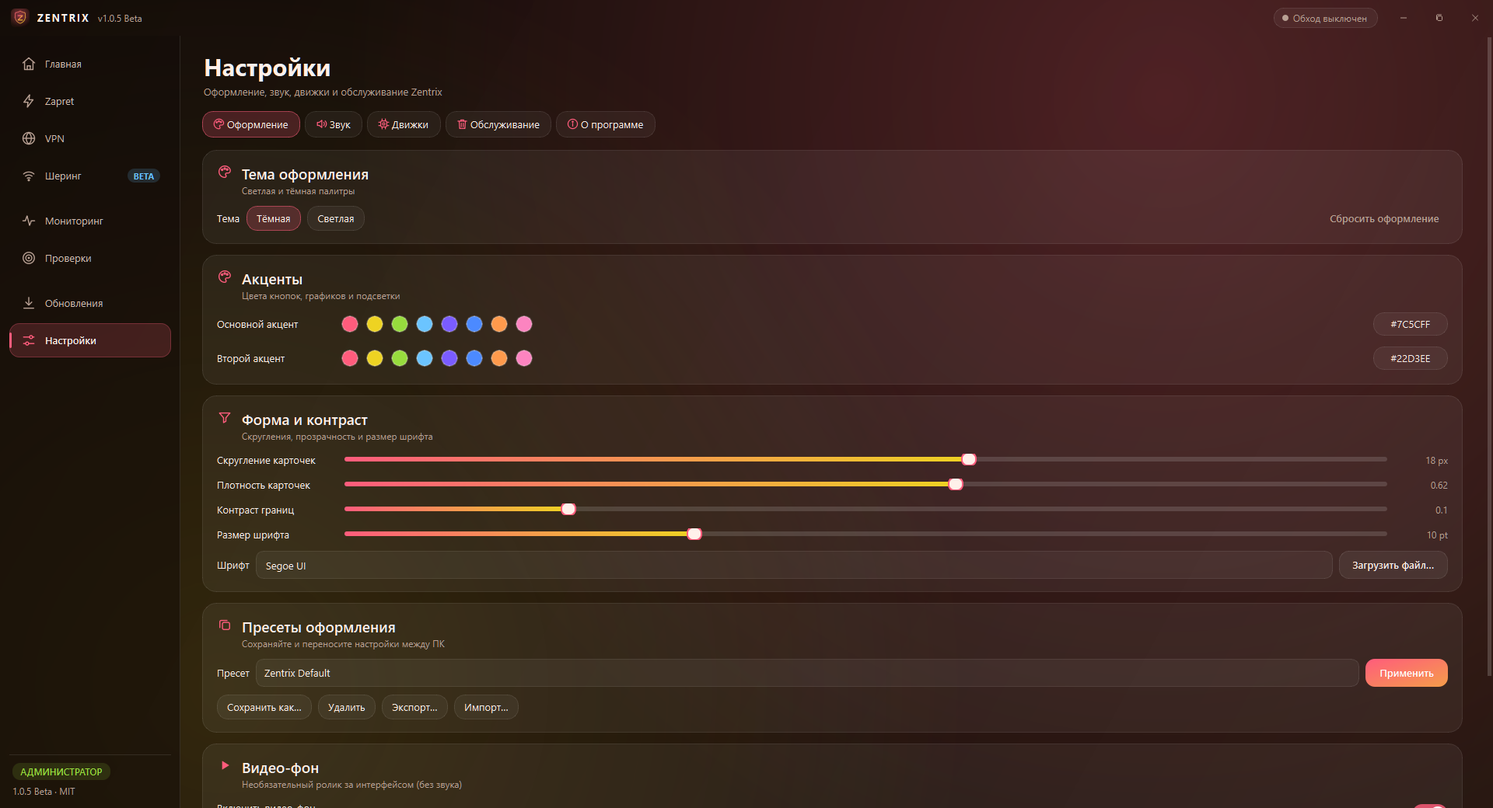
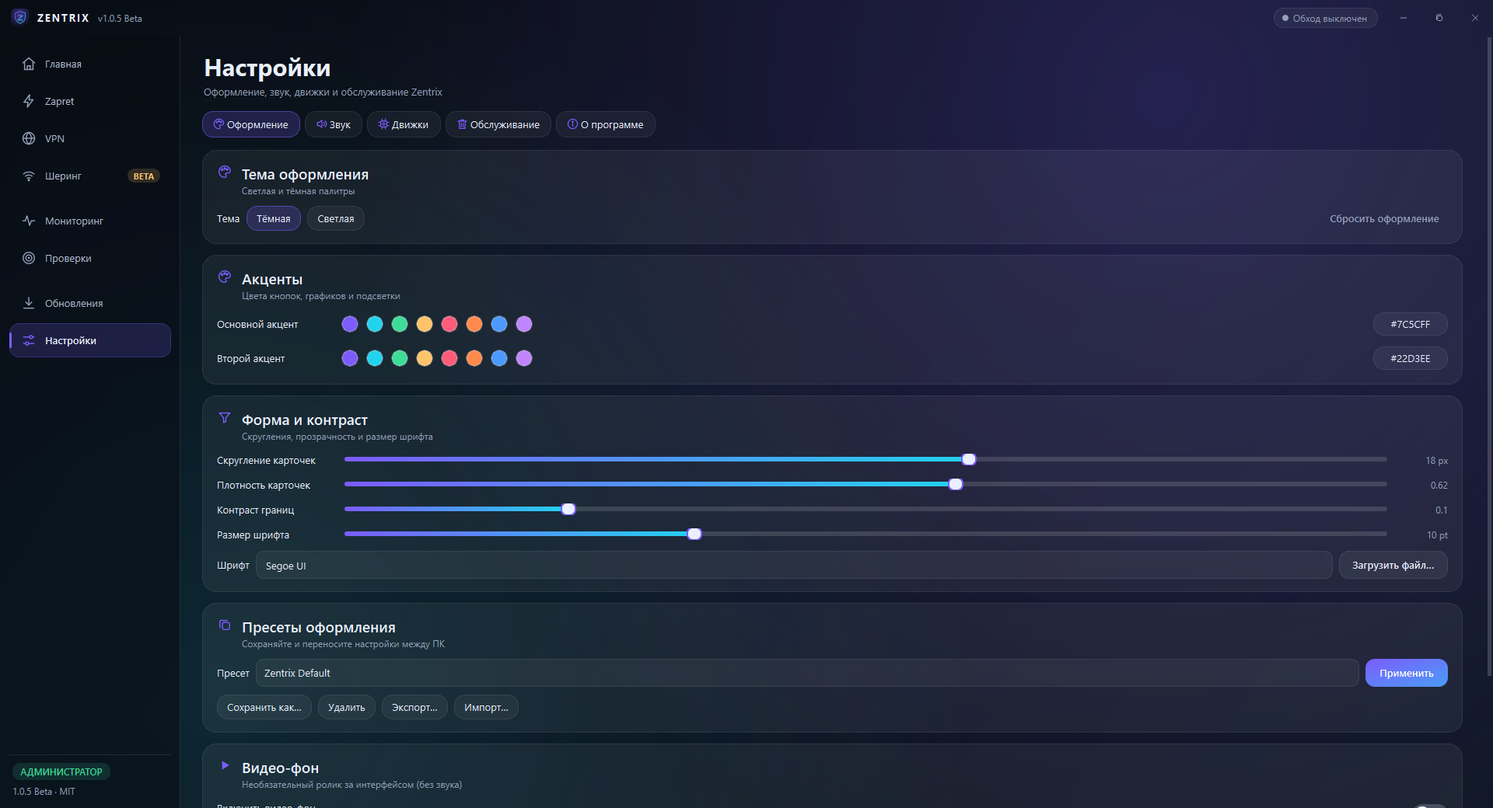
Site: demo rebuilt to mirror the real app; screenshots re-captured correctly
- interactive demo now reproduces the actual app layout: hero card
  'Обход блокировок под контролем' with orb, engine cards with
  'Управление', Zapret page with strategies + Расположение/Обход/
  Состояние columns, game filter and bypass cards
- fixed the capture script swapping R/B channels (BGRA), which painted
  every screenshot red; screenshots now show the true purple theme
- background video disabled during capture so pages show the clean
  gradient

diff --git a/docs/index.html b/docs/index.html
@@ -55,9 +55,9 @@
 
       </div>
 
-      <div class="mock app-demo" id="appDemo">
-        <div class="win"><i></i><i></i><i></i><span>Zentrix — v1.0.5</span>
-          <span class="pill"><i class="dot"></i>Обход активен</span>
+<div class="mock app-demo" id="appDemo">
+        <div class="win"><i></i><i></i><i></i><span>ZENTRIX · v1.0.5 Beta</span>
+          <span class="pill"><i class="dot"></i>Обход выключен</span>
         </div>
         <div class="app">
 
@@ -70,69 +70,118 @@
             <button data-page="check" data-glyph="◎"><span>Проверки</span></button>
             <button data-page="updates" data-glyph="↓"><span>Обновления</span></button>
             <button data-page="settings" data-glyph="◐"><span>Настройки</span></button>
-            <div class="app-foot">АДМИНИСТРАТОР</div>
+            <div class="app-foot"><b>АДМИНИСТРАТОР</b><small>1.0.5 Beta · MIT</small></div>
           </aside>
 
           <div class="app-body">
 
             <!-- Главная -->
             <section class="page on" data-page="home">
-              <div class="pg-head"><h4>Главная</h4><p>Обход и VPN — под одной кнопкой</p></div>
-              <div class="a-stats">
-                <div class="a-stat"><div class="cap">ZAPRET</div><div class="val ok">Активен</div><div class="det">general (FAKE TLS AUTO)</div></div>
-                <div class="a-stat"><div class="cap">VPN</div><div class="val ok">Подключён</div><div class="det">Xray · сервер ••••</div></div>
-                <div class="a-stat"><div class="cap">СЕТЬ</div><div class="val">4.2 Мбит/с</div><div class="det">↓ 3.9 · ↑ 0.3 Мбит/с</div></div>
-              </div>
-              <div class="a-chart">
-                <svg viewBox="0 0 300 130" preserveAspectRatio="none">
-                  <g stroke="rgba(255,255,255,.07)"><line x1="0" y1="33" x2="300" y2="33"/><line x1="0" y1="66" x2="300" y2="66"/><line x1="0" y1="99" x2="300" y2="99"/></g>
-                  <path d="M0,110 C30,105 45,80 70,78 S110,95 140,70 S190,30 220,38 S270,60 300,50 L300,130 L0,130 Z" fill="rgba(124,92,255,.22)"/>
-                  <path d="M0,110 C30,105 45,80 70,78 S110,95 140,70 S190,30 220,38 S270,60 300,50" fill="none" stroke="#7c5cff" stroke-width="2"/>
-                  <path d="M0,118 C40,116 80,112 120,108 S200,100 240,96 S280,92 300,90 L300,130 L0,130 Z" fill="rgba(34,211,238,.14)"/>
-                  <path d="M0,118 C40,116 80,112 120,108 S200,100 240,96 S280,92 300,90" fill="none" stroke="#22d3ee" stroke-width="2"/>
-                </svg>
-              </div>
-              <div class="a-cards two" style="margin-top:10px">
-                <div class="a-card"><h5>Быстрые действия</h5>
+              <div class="pg-head"><h4>Главная</h4><p>Zapret и VPN-подключения — под одним стеклом</p></div>
+              <div class="a-hero">
+                <div>
+                  <span class="chip" data-run-badge>ВЫКЛЮЧЕНО</span>
+                  <div class="a-hero-title">Обход блокировок<br>под контролем</div>
+                  <p data-run-status>Zapret выключен · выбрана стратегия general (FAKE TLS AUTO ALT3).bat</p>
                   <div class="a-row">
-                    <span class="a-btn primary" data-run>Запустить</span>
-                    <span class="a-btn">Проверить сервисы</span>
-                    <span class="a-btn">Перезапустить</span>
+                    <span class="a-btn primary" data-run>Включить обход</span>
+                    <span class="a-btn">Проверить блокировки</span>
                   </div>
                 </div>
-                <div class="a-card"><h5>Состояние движков</h5>
-                  <p>Zapret: запущен · PID 42**<br>VPN (Xray): подключён · PID 31**<br>Мульти-прокси: выключен</p>
+                <div class="a-orb">🛡</div>
+              </div>
+              <div class="a-engines">
+                <div class="a-card">
+                  <h5>⚡ Zapret <span class="chip">ВЫКЛЮЧЕН</span></h5>
+                  <p class="a-sub">DPI-обход через winws</p>
+                  <span class="a-manage">› Управление</span>
+                </div>
+                <div class="a-card">
+                  <h5>🌐 VPN <span class="chip">ВЫКЛЮЧЕН</span></h5>
+                  <p class="a-sub">Общие профили · Xray / sing-box</p>
+                  <span class="a-manage">› Управление</span>
+                </div>
+                <div class="a-card">
+                  <h5>📶 Шеринг <span class="chip">ВЫКЛЮЧЕНО</span></h5>
+                  <p class="a-sub">Подключение устройств в LAN · BETA</p>
+                  <span class="a-manage">› Управление</span>
+                </div>
+              </div>
+              <div class="a-cards two">
+                <div class="a-card"><h5>◎ Проверка сервисов</h5>
+                  <p>Проверка ещё не запускалась. Нажмите «Проверить сейчас».</p>
+                  <span class="a-manage">Проверить сейчас</span>
+                </div>
+                <div class="a-card"><h5>⚡ Быстрые действия</h5>
+                  <div class="a-quick">
+                    <span>↓ Обновления компонентов</span>
+                    <span>◔ Мониторинг трафика</span>
+                    <span>✦ Очистка от лишних файлов</span>
+                    <span>♪ Оформление и звук</span>
+                  </div>
                 </div>
               </div>
             </section>
 
             <!-- Zapret -->
             <section class="page" data-page="zapret">
-              <div class="pg-head"><h4>Zapret</h4><p>winws.exe без консолей · 22 стратегии</p></div>
-              <div class="a-card">
-                <h5><span class="chip" data-run-badge>ВЫКЛЮЧЕН</span><span data-run-status style="color:var(--muted);font-weight:500">Движок не запущен</span></h5>
-                <div style="font-size:14px;font-weight:700;margin-bottom:8px">Стратегия: general (FAKE TLS AUTO)</div>
-                <div class="a-row" style="margin-bottom:10px">
-                  <span class="a-btn primary" data-run>Запустить</span>
-                  <span class="a-btn">Перезапустить</span>
-                  <span class="a-btn">Проверить стратегию</span>
-                  <span class="a-btn">Поиск лучшей</span>
+              <div class="pg-head"><h4>Zapret</h4><p>GUI-обёртка над zapret-discord-youtube 1.10.4 · winws без консолей</p></div>
+              <div class="a-hero">
+                <div>
+                  <span class="chip" data-run-badge>ВЫКЛЮЧЕН</span>
+                  <div class="a-hero-title small">Стратегия: general (FAKE TLS AUTO ALT3)</div>
+                  <p data-run-status>Движок не запущен</p>
+                  <div class="a-row">
+                    <span class="a-btn primary" data-run>Запустить</span>
+                    <span class="a-btn">Перезапустить</span>
+                    <span class="a-btn">Проверить стратегию</span>
+                    <span class="a-btn ghosted">Команда winws</span>
+                  </div>
                 </div>
-                <input class="a-input" placeholder="Поиск по названию…" value="general" readonly>
-                <div class="a-list" data-select-group>
-                  <div class="a-item sel"><b>general (FAKE TLS AUTO)</b><span class="tag">Fake TLS</span></div>
-                  <div class="a-item"><b>general (FAKE TLS AUTO ALT)</b><span class="tag">Fake TLS</span></div>
-                  <div class="a-item"><b>general (SIMPLE FAKE)</b><span class="tag">Simple</span></div>
-                  <div class="a-item"><b>general (ALT)</b><span class="tag">ALT</span></div>
-                  <div class="a-item"><b>general</b><span class="tag">General</span></div>
-                  <div class="a-item"><b>general (EXP)</b><span class="tag">Experimental</span></div>
+                <div class="a-orb">⚡</div>
+              </div>
+              <div class="a-cols">
+                <div class="a-card grow">
+                  <h5>▽ Стратегии
+                    <span class="a-mini-btn">◎ Поиск лучшей стратегии</span>
+                    <span class="a-mini-btn">Полный перебор</span>
+                  </h5>
+                  <input class="a-input" placeholder="Поиск по названию…" value="general" readonly>
+                  <div class="a-list" data-select-group>
+                    <div class="a-item"><b>general</b><span class="tag">General</span></div>
+                    <div class="a-item"><b>general (FAKE TLS AUTO ALT)</b><span class="tag">Fake TLS</span></div>
+                    <div class="a-item sel"><b>general (FAKE TLS AUTO ALT3)</b><span class="tag">Fake TLS</span></div>
+                    <div class="a-item"><b>general (FAKE TLS AUTO)</b><span class="tag">Fake TLS</span></div>
+                    <div class="a-item"><b>general (ALT)</b><span class="tag">ALT</span></div>
+                    <div class="a-item"><b>general (ALT10)</b><span class="tag">ALT</span></div>
+                    <div class="a-item"><b>general (SIMPLE FAKE)</b><span class="tag">Simple</span></div>
+                  </div>
+                </div>
+                <div class="a-side">
+                  <div class="a-card"><h5>📁 Расположение</h5>
+                    <input class="a-input" value="C:\…\engines\zapret" readonly>
+                    <div class="a-row" style="margin-top:8px">
+                      <span class="a-btn" style="flex:1;justify-content:center">Обзор…</span>
+                      <span class="a-btn primary" style="flex:1;justify-content:center">Применить</span>
+                    </div>
+                    <div class="a-tgl-row"><span>Автозапуск в Zentrix</span><span class="a-toggle"><i></i></span></div>
+                    <div class="a-tgl-row"><span>Запуск при старте Windows</span><span class="a-toggle"><i></i></span></div>
+                  </div>
+                  <div class="a-card"><h5>↓ Обход</h5>
+                    <p class="a-sub" style="margin-bottom:8px">Обновление списков из репозитория zapret-discord-youtube</p>
+                    <div class="a-row">
+                      <span class="a-btn" style="flex:1;justify-content:center">Обновить IPSet</span>
+                      <span class="a-btn" style="flex:1;justify-content:center">Обновить hosts</span>
+                    </div>
+                  </div>
+                  <div class="a-card"><h5>☼ Состояние</h5>
+                    <p>PID: —<br>Права: администратор<br>Движок: C:\…\engines\zapret</p>
+                  </div>
                 </div>
               </div>
-              <div class="a-cards two" style="margin-top:10px">
-                <div class="a-card"><h5>Игровой фильтр <span class="chip warn">2 игры</span></h5>
-                  <p>Режим исключений: Zapret останавливается на время выбранной игры — чистый пинг в матче.</p></div>
-                <div class="a-card"><h5>Обход</h5>
-                  <div class="a-row"><span class="a-btn">Обновить IPSet</span><span class="a-btn">Обновить hosts</span></div></div>
+              <div class="a-card" style="margin-top:10px">
+                <h5>▽ Игровой фильтр <span class="chip warn">2 игры</span></h5>
+                <p>Режим исключений: Zapret не применяется к выбранным играм — Zapret работает на весь ПК, но останавливается на время матча. Чистый пинг как по LAN.</p>
               </div>
             </section>
 
@@ -186,7 +235,12 @@
 
             <!-- Мониторинг -->
             <section class="page" data-page="monitor">
-              <div class="pg-head"><h4>Мониторинг</h4><p>Скорость и соединения в реальном времени</p></div>
+              <div class="pg-head"><h4>Мониторинг</h4><p>Скорость интерфейсов и активные TCP-соединения</p></div>
+              <div class="a-stats">
+                <div class="a-stat"><div class="cap">ВХОДЯЩАЯ СКОРОСТЬ</div><div class="val">0 Б/с</div></div>
+                <div class="a-stat"><div class="cap">ИСХОДЯЩАЯ СКОРОСТЬ</div><div class="val">0 Б/с</div></div>
+                <div class="a-stat"><div class="cap">СОЕДИНЕНИЯ</div><div class="val">0</div></div>
+              </div>
               <div class="a-chart" style="margin-bottom:10px">
                 <svg viewBox="0 0 300 130" preserveAspectRatio="none">
                   <g stroke="rgba(255,255,255,.07)"><line x1="0" y1="33" x2="300" y2="33"/><line x1="0" y1="66" x2="300" y2="66"/><line x1="0" y1="99" x2="300" y2="99"/></g>
@@ -196,25 +250,22 @@
               </div>
               <div class="a-card">
                 <h5>Активные соединения</h5>
-                <div class="a-list">
-                  <div class="a-item"><b>••••••.exe</b>&nbsp;· <span class="mask">ххх.ххх.ххх.ххх</span>:443<span class="tag">2.1 МБ/с</span></div>
-                  <div class="a-item"><b>••••••.exe</b>&nbsp;· <span class="mask">ххх.ххх.ххх.ххх</span>:443<span class="tag">0.8 МБ/с</span></div>
-                  <div class="a-item"><b>••••••.exe</b>&nbsp;· <span class="mask">ххх.ххх.ххх.ххх</span>:5228<span class="tag">0.1 МБ/с</span></div>
-                </div>
+                <p>Мониторинг остановлен — нажмите «Запустить». Адреса соединений скрыты на сайте.</p>
               </div>
             </section>
 
             <!-- Проверки -->
             <section class="page" data-page="check">
-              <div class="pg-head"><h4>Проверки</h4><p>Что работает, что заблокировано и чем именно</p></div>
+              <div class="pg-head"><h4>Проверка блокировок</h4><p>Что работает, что заблокировано и чем именно</p></div>
               <div class="a-card">
-                <h5>Диагностика сервисов <span class="chip">3 из 5 доступно</span></h5>
+                <h5>Диагностика сервисов <span class="chip">3 из 9 доступно</span></h5>
                 <div class="a-list">
                   <div class="a-item"><b>YouTube</b><span class="tag" style="color:var(--green)">Доступен · 84 мс</span></div>
                   <div class="a-item"><b>Discord</b><span class="tag" style="color:#ff8098">Заблокирован · SNI</span></div>
                   <div class="a-item"><b>Telegram</b><span class="tag" style="color:var(--green)">Доступен · 61 мс</span></div>
                   <div class="a-item"><b>Steam</b><span class="tag" style="color:#f0c876">Нестабильно</span></div>
-                  <div class="a-item"><b>Github</b><span class="tag" style="color:var(--green)">Доступен · 47 мс</span></div>
+                  <div class="a-item"><b>GitHub</b><span class="tag" style="color:var(--green)">Доступен · 47 мс</span></div>
+                  <div class="a-item"><b>Spotify</b><span class="tag" style="color:var(--green)">Доступен · 92 мс</span></div>
                 </div>
                 <div class="a-row" style="margin-top:10px"><span class="a-btn primary">Запустить проверку</span></div>
               </div>
@@ -237,35 +288,39 @@
 
             <!-- Настройки -->
             <section class="page" data-page="settings">
-              <div class="pg-head"><h4>Настройки</h4><p>Темы, акценты, звуки, автозапуск</p></div>
+              <div class="pg-head"><h4>Настройки</h4><p>Оформление, звук, движки и обслуживание Zentrix</p></div>
+              <div class="a-card" style="margin-bottom:10px">
+                <h5>Тема оформления <span class="chip">Светлая и тёмная палитры</span></h5>
+                <div class="a-row"><span class="a-btn on">Тёмная</span><span class="a-btn">Светлая</span></div>
+                <h5 style="margin-top:12px">Акценты</h5>
+                <div class="a-row">
+                  <span class="a-btn sw on" style="background:#7c5cff"></span>
+                  <span class="a-btn sw" style="background:#22d3ee"></span>
+                  <span class="a-btn sw" style="background:#3ddc97"></span>
+                  <span class="a-btn sw" style="background:#ffc46b"></span>
+                  <span class="a-btn sw" style="background:#ff5c7a"></span>
+                  <span class="a-btn sw" style="background:#ff8a4c"></span>
+                  <span class="a-btn sw" style="background:#4c9aff"></span>
+                </div>
+              </div>
               <div class="a-cards two">
                 <div class="a-card">
-                  <h5>Внешний вид</h5>
-                  <div class="a-row" style="align-items:center;margin-bottom:8px">
-                    <span class="a-toggle on"><i></i></span><span style="font-size:12.5px">Тёмная тема</span>
-                  </div>
-                  <div class="a-row">
-                    <span class="a-btn" style="padding:9px 16px;background:#7c5cff;border:none"></span>
-                    <span class="a-btn" style="padding:9px 16px;background:#22d3ee;border:none"></span>
-                    <span class="a-btn" style="padding:9px 16px;background:#3ddc97;border:none"></span>
-                    <span class="a-btn" style="padding:9px 16px;background:#ff5c7a;border:none"></span>
-                  </div>
+                  <h5>Поведение</h5>
+                  <div class="a-tgl-row"><span>Сворачивать в трей</span><span class="a-toggle on"><i></i></span></div>
+                  <div class="a-tgl-row"><span>Запуск при старте Windows</span><span class="a-toggle"><i></i></span></div>
                 </div>
                 <div class="a-card">
-                  <h5>Поведение</h5>
-                  <div class="a-row" style="align-items:center;margin-bottom:6px">
-                    <span class="a-toggle on"><i></i></span><span style="font-size:12.5px">Сворачивать в трей</span>
-                  </div>
-                  <div class="a-row" style="align-items:center">
-                    <span class="a-toggle"><i></i></span><span style="font-size:12.5px">Запуск при старте Windows</span>
-                  </div>
+                  <h5>Звук</h5>
+                  <div class="a-tgl-row"><span>Звуки интерфейса</span><span class="a-toggle on"><i></i></span></div>
+                  <p class="a-sub">Синтезируются на лету, без файлов</p>
                 </div>
               </div>
             </section>
 
           </div>
         </div>
-        <div class="demo-note">🖱 <span><b>Интерфейс кликабельный</b> — переключайте вкладки слева, выбирайте стратегии и маршруты. IP-адреса, города и процессы       </div>
+        <div class="demo-note">🖱 <span><b>Интерфейс кликабельный</b> — переключайте вкладки слева, выбирайте стратегии и маршруты. IP-адреса, города и процессы скрыты для сайта.</span></div>
+      </div>
 
       <div class="cta hero-cta">
         <a class="btn primary" href="https://github.com/w1kscc/Zentrix/releases/latest"

diff --git a/docs/demo.css b/docs/demo.css
@@ -235,3 +235,60 @@
 }
 .ver-pill i { width: 6px; height: 6px; border-radius: 50%; background: var(--green); }
 @media (max-width: 800px) { .ver-pill { display: none; } }
+
+/* ------------------- элементы, повторяющие реальное приложение ------------------- */
+.a-hero {
+  display: flex; gap: 16px; align-items: center;
+  border: 1px solid rgba(124, 92, 255, 0.28);
+  border-radius: 16px;
+  background: linear-gradient(120deg, rgba(124, 92, 255, 0.16), rgba(34, 211, 238, 0.07) 55%, rgba(255, 255, 255, 0.03));
+  padding: 16px 18px;
+  margin-bottom: 10px;
+}
+.a-hero > div:first-child { flex: 1; }
+.a-hero-title { font-size: 19px; font-weight: 800; letter-spacing: -0.4px; margin: 6px 0 4px; line-height: 1.15; }
+.a-hero-title.small { font-size: 15.5px; }
+.a-hero p { margin: 0 0 10px; }
+.a-orb {
+  flex: none; width: 84px; height: 84px; border-radius: 26px;
+  display: grid; place-items: center; font-size: 34px;
+  background: radial-gradient(circle at 50% 40%, rgba(124, 92, 255, 0.30), rgba(124, 92, 255, 0.06));
+  border: 1px solid rgba(124, 92, 255, 0.30);
+}
+.a-engines { display: grid; grid-template-columns: repeat(3, 1fr); gap: 10px; margin-bottom: 10px; }
+@media (max-width: 620px) { .a-engines { grid-template-columns: 1fr; } }
+.a-engines h5 { justify-content: flex-start; }
+.a-engines h5 .chip { margin-left: auto; }
+.a-sub { color: var(--muted); font-size: 11.5px; margin: 0 0 8px; }
+.a-manage {
+  display: flex; align-items: center; justify-content: center; gap: 6px;
+  border: 1px solid var(--line); border-radius: 10px;
+  background: rgba(255, 255, 255, 0.04);
+  padding: 7px 10px; font-size: 12px; font-weight: 650; color: var(--text);
+  cursor: pointer; user-select: none;
+}
+.a-manage:hover { background: rgba(255, 255, 255, 0.08); }
+.a-quick { display: grid; grid-template-columns: 1fr 1fr; gap: 7px; }
+.a-quick span {
+  font-size: 12px; color: var(--muted);
+  border: 1px solid transparent; border-radius: 9px; padding: 6px 9px;
+}
+.a-quick span:hover { background: rgba(255, 255, 255, 0.06); color: var(--text); }
+.a-cols { display: grid; grid-template-columns: 1.5fr 1fr; gap: 10px; align-items: start; }
+@media (max-width: 620px) { .a-cols { grid-template-columns: 1fr; } }
+.a-side { display: flex; flex-direction: column; gap: 10px; }
+.a-mini-btn {
+  font-size: 10.5px; font-weight: 650; color: var(--muted);
+  border: 1px solid var(--line); border-radius: 999px; padding: 3px 10px;
+  cursor: pointer; font-weight: 600;
+}
+.a-mini-btn:hover { color: var(--text); background: rgba(255, 255, 255, 0.06); }
+.a-tgl-row {
+  display: flex; align-items: center; justify-content: space-between; gap: 10px;
+  font-size: 12.5px; color: var(--text); padding: 5px 0;
+}
+.a-btn.ghosted { background: transparent; border-color: transparent; color: var(--muted); }
+.a-btn.sw { width: 22px; height: 22px; padding: 0; border-radius: 50%; border: 2px solid rgba(255, 255, 255, 0.2); }
+.a-btn.sw.on { border-color: #fff; }
+.app-foot b { display: block; color: var(--green); font-size: 10.5px; font-weight: 700; letter-spacing: .6px; }
+.app-foot small { display: block; color: var(--muted); font-size: 10px; margin-top: 3px; }

diff --git a/docs/demo.js b/docs/demo.js
@@ -44,12 +44,13 @@
     toggle.addEventListener("click", function () { toggle.classList.toggle("on"); });
   });
 
-  // Кнопки запуска: смена состояния (без анимации), в каждом разделе своя
+  // Кнопки запуска: смена состояния (без анимации), у каждой свой исходный текст
   demo.querySelectorAll("[data-run]").forEach(function (runButton) {
+    var idleText = runButton.textContent;
     runButton.addEventListener("click", function () {
       var running = runButton.classList.toggle("danger");
       runButton.classList.toggle("primary", !running);
-      runButton.textContent = running ? "Остановить" : "Запустить";
+      runButton.textContent = running ? "Остановить" : idleText;
       var badge = demo.querySelector("[data-run-badge]");
       if (badge) {
         badge.textContent = running ? "РАБОТАЕТ" : "ВЫКЛЮЧЕН";
@@ -57,7 +58,13 @@
         badge.classList.toggle("muted", !running);
       }
       var status = demo.querySelector("[data-run-status]");
-      if (status) status.textContent = running ? "general (FAKE TLS AUTO) · PID 42**" : "Движок не запущен";
+      if (status) {
+        status.textContent = running
+          ? "Zapret работает · выбранная стратегия применена · PID 42**"
+          : idleText === "Включить обход"
+            ? "Zapret выключен · выбрана стратегия general (FAKE TLS AUTO ALT3).bat"
+            : "Движок не запущен";
+      }
     });
   });
 })();
